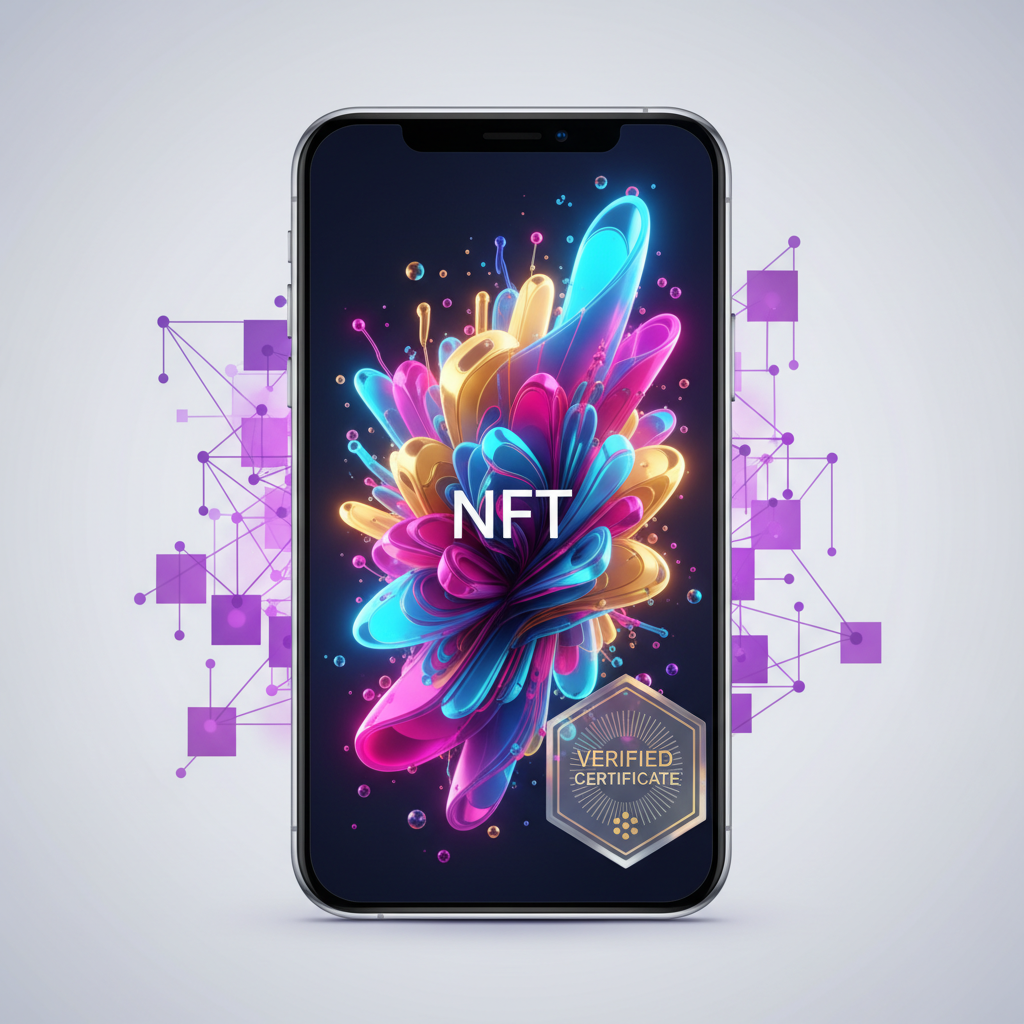
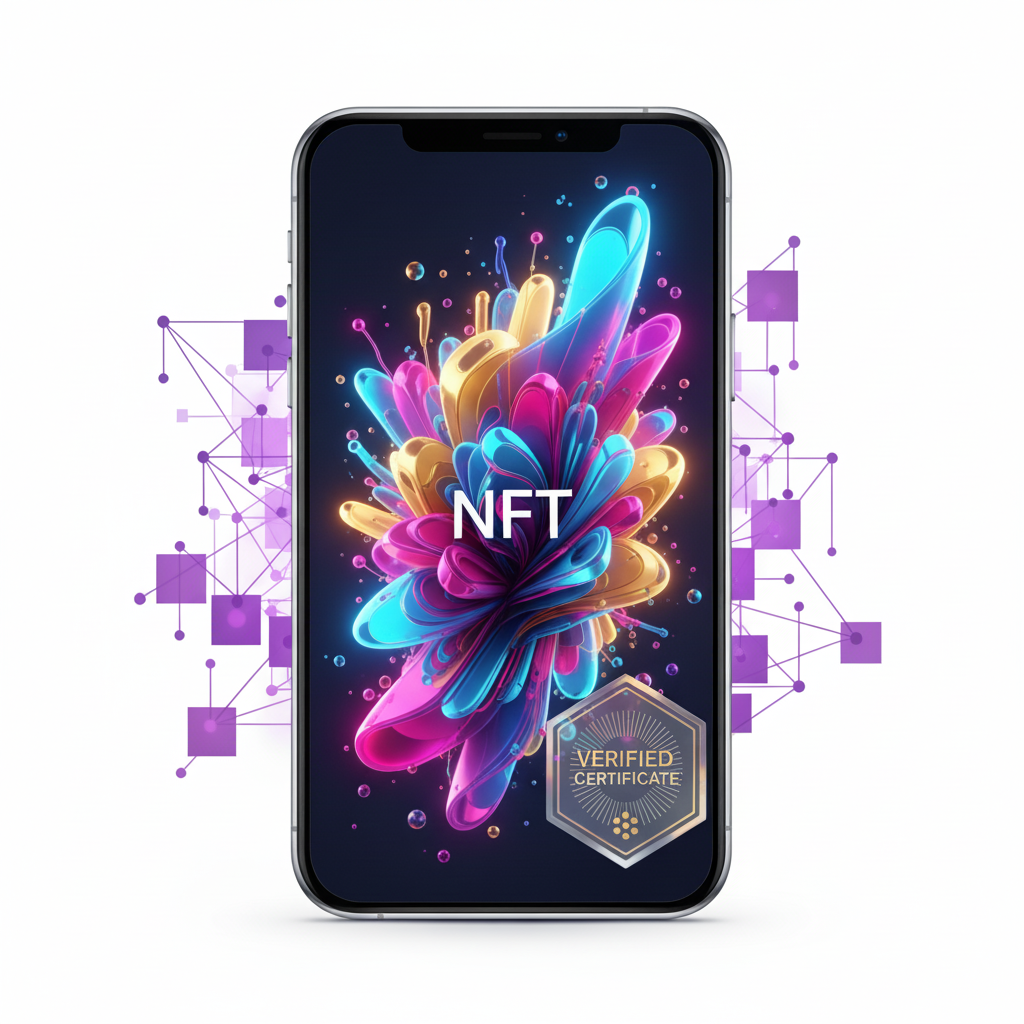
style: Adjust image container styling and layout across landing page components.

diff --git a/src/components/landing/Features.tsx b/src/components/landing/Features.tsx
@@ -29,13 +29,13 @@ export function Features() {
           >
             <div className="absolute inset-0 bg-linear-to-br from-[#2B4C7E]/30 to-[#1E3A5F]/20 rounded-3xl transform rotate-3 scale-95 blur-2xl" />
             <div className="relative bg-white border-2 border-[#2B4C7E]/20 rounded-2xl shadow-2xl shadow-[#2B4C7E]/20 overflow-hidden p-2">
-              <div className="bg-linear-to-br from-[#2B4C7E]/5 to-white rounded-xl p-6 h-[300px] sm:h-[400px] flex items-center justify-center border border-[#A8A8A8]/20">
+              <div className="bg-white rounded-xl p-4 h-[240px] sm:h-[320px] flex items-center justify-center border border-[#A8A8A8]/20">
                 <Image
                   src="/feature-analytics.png"
                   alt="Real-time Analytics Dashboard"
                   width={400}
                   height={400}
-                  className="w-full h-auto object-contain"
+                  className="w-full h-auto object-contain max-h-full"
                 />
               </div>
             </div>
@@ -119,13 +119,13 @@ export function Features() {
           >
             <div className="absolute inset-0 bg-linear-to-br from-[#A8A8A8]/30 to-[#2B4C7E]/20 rounded-3xl transform -rotate-3 scale-95 blur-2xl" />
             <div className="relative bg-white border-2 border-[#A8A8A8]/30 rounded-2xl shadow-2xl shadow-[#A8A8A8]/20 overflow-hidden p-2">
-              <div className="bg-linear-to-br from-white to-[#A8A8A8]/5 rounded-xl p-6 h-[300px] sm:h-[400px] flex items-center justify-center border border-[#A8A8A8]/20">
+              <div className="bg-white rounded-xl p-4 h-[240px] sm:h-[320px] flex items-center justify-center border border-[#A8A8A8]/20">
                 <Image
                   src="/feature-scanning.png"
                   alt="Mobile QR Code Scanning"
                   width={400}
                   height={400}
-                  className="w-full h-auto object-contain"
+                  className="w-full h-auto object-contain max-h-full"
                 />
               </div>
             </div>
@@ -145,13 +145,13 @@ export function Features() {
           >
             <div className="absolute inset-0 bg-linear-to-br from-[#1E3A5F]/30 to-[#0C2340]/20 rounded-3xl transform rotate-2 scale-95 blur-2xl" />
             <div className="relative bg-white border-2 border-[#1E3A5F]/20 rounded-2xl shadow-2xl shadow-[#0C2340]/20 overflow-hidden p-2">
-              <div className="bg-linear-to-br from-[#0C2340]/5 to-white rounded-xl p-6 h-[300px] sm:h-[400px] flex items-center justify-center border border-[#1E3A5F]/20">
+              <div className="bg-white rounded-xl p-4 h-[240px] sm:h-[320px] flex items-center justify-center border border-[#1E3A5F]/20">
                 <Image
                   src="/feature-security.png"
                   alt="Blockchain Security"
                   width={400}
                   height={400}
-                  className="w-full h-auto object-contain"
+                  className="w-full h-auto object-contain max-h-full"
                 />
               </div>
             </div>
@@ -257,13 +257,13 @@ export function Features() {
           >
             <div className="absolute inset-0 bg-linear-to-br from-purple-500/30 via-pink-500/20 to-transparent rounded-3xl transform -rotate-3 scale-95 blur-2xl" />
             <div className="relative bg-white border-2 border-purple-500/20 rounded-2xl shadow-2xl shadow-purple-500/20 overflow-hidden p-2">
-              <div className="bg-linear-to-br from-purple-500/5 via-pink-500/5 to-white rounded-xl p-6 h-[300px] sm:h-[400px] flex items-center justify-center border border-purple-500/10">
+              <div className="bg-white rounded-xl p-4 h-[240px] sm:h-[320px] flex items-center justify-center border border-purple-500/10">
                 <Image
                   src="/feature-nft.png"
                   alt="NFT Collectible"
                   width={400}
                   height={400}
-                  className="w-full h-auto object-contain"
+                  className="w-full h-auto object-contain max-h-full"
                 />
               </div>
             </div>

diff --git a/src/components/landing/Industries.tsx b/src/components/landing/Industries.tsx
@@ -74,13 +74,13 @@ export function Industries() {
                   </li>
                 </ul>
               </div>
-              <div className="w-full md:w-1/3 aspect-square bg-linear-to-br from-[#2B4C7E]/10 to-white rounded-xl flex items-center justify-center border-2 border-[#2B4C7E]/20 overflow-hidden p-4">
+              <div className="w-full md:w-1/3 h-[200px] bg-white rounded-xl flex items-center justify-center border-2 border-[#2B4C7E]/20 overflow-hidden p-4">
                 <Image
                   src="/industry-fashion.png"
                   alt="Fashion Authentication"
                   width={300}
                   height={300}
-                  className="w-full h-auto object-contain"
+                  className="w-full h-auto object-contain max-h-full"
                 />
               </div>
             </MotionDiv>
@@ -111,13 +111,13 @@ export function Industries() {
                   </li>
                 </ul>
               </div>
-              <div className="w-full md:w-1/3 aspect-square bg-linear-to-br from-[#2B4C7E]/10 to-white rounded-xl flex items-center justify-center border-2 border-[#2B4C7E]/20 overflow-hidden p-4">
+              <div className="w-full md:w-1/3 h-[200px] bg-white rounded-xl flex items-center justify-center border-2 border-[#2B4C7E]/20 overflow-hidden p-4">
                 <Image
                   src="/industry-electronics.png"
                   alt="Electronics Warranty"
                   width={300}
                   height={300}
-                  className="w-full h-auto object-contain"
+                  className="w-full h-auto object-contain max-h-full"
                 />
               </div>
             </MotionDiv>
@@ -148,13 +148,13 @@ export function Industries() {
                   </li>
                 </ul>
               </div>
-              <div className="w-full md:w-1/3 aspect-square bg-linear-to-br from-[#2B4C7E]/10 to-white rounded-xl flex items-center justify-center border-2 border-[#2B4C7E]/20 overflow-hidden p-4">
+              <div className="w-full md:w-1/3 h-[200px] bg-white rounded-xl flex items-center justify-center border-2 border-[#2B4C7E]/20 overflow-hidden p-4">
                 <Image
                   src="/industry-pharma.png"
                   alt="Pharmaceutical Safety"
                   width={300}
                   height={300}
-                  className="w-full h-auto object-contain"
+                  className="w-full h-auto object-contain max-h-full"
                 />
               </div>
             </MotionDiv>

diff --git a/src/components/landing/Hero.tsx b/src/components/landing/Hero.tsx
@@ -86,7 +86,7 @@ export function Hero() {
             animate={{ opacity: 1, x: 0 }}
             transition={{ duration: 0.8, delay: 0.4 }}
           >
-            <div className="relative w-full aspect-square max-w-[600px] mx-auto">
+            <div className="relative w-full max-w-[480px] mx-auto">
               {/* Background Glow */}
               <div className="absolute inset-0 bg-linear-to-br from-[#2B4C7E]/10 to-[#1E3A5F]/5 rounded-full blur-3xl" />
 
